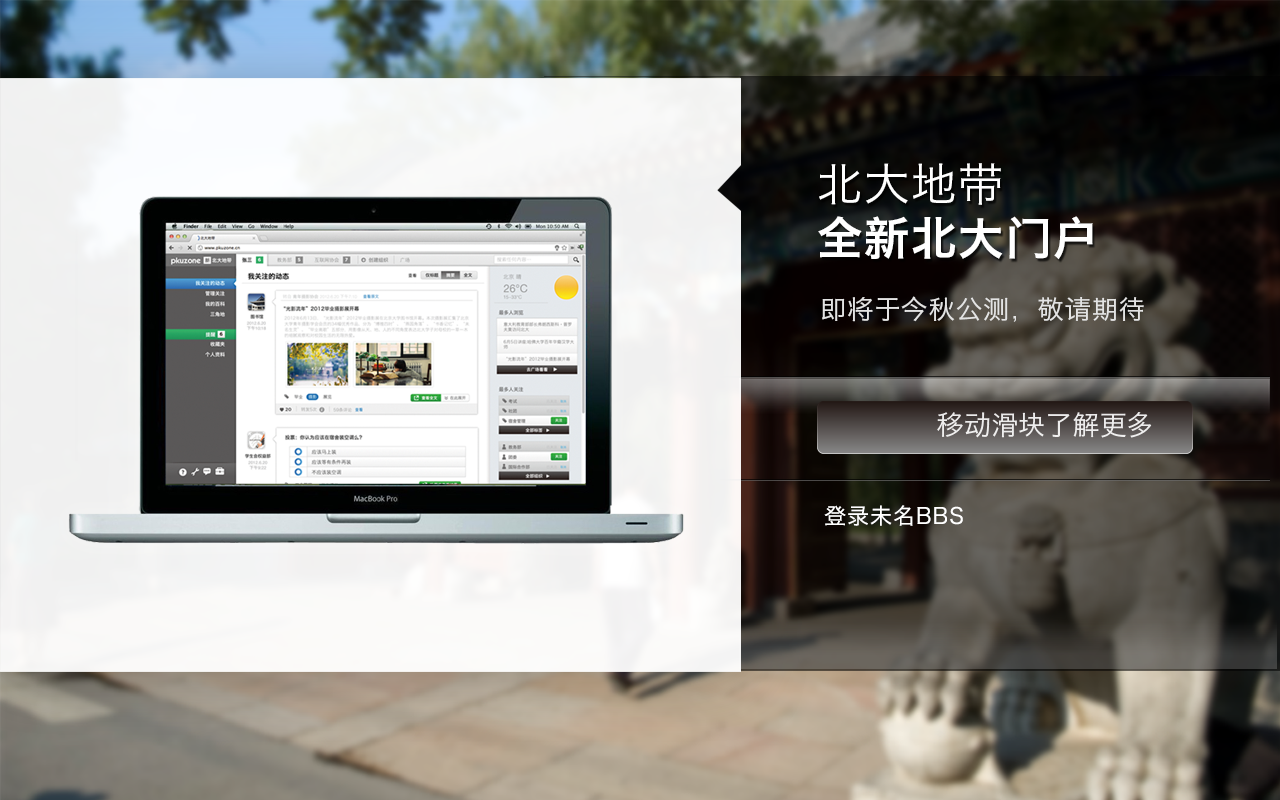
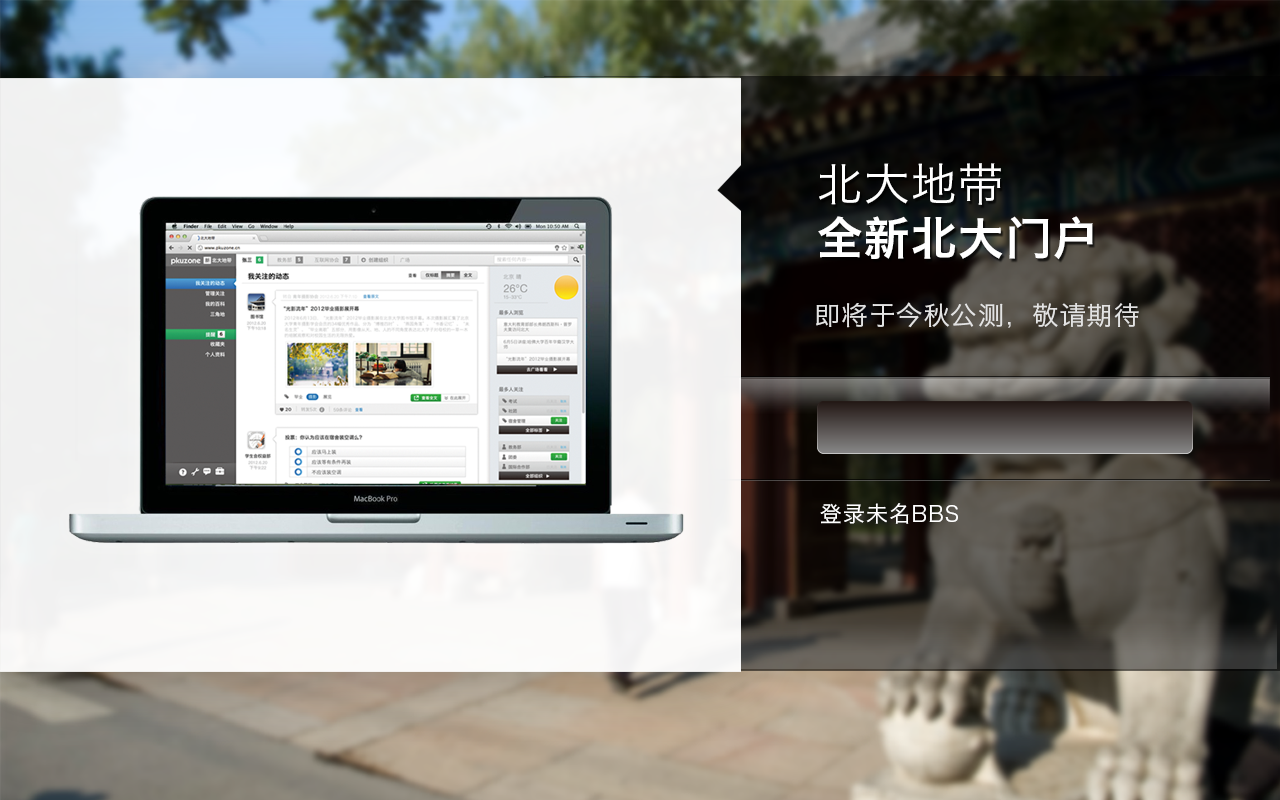
Modify to improve the compability in IE. Add opacity effect of the slide.

Changed region(s): [[0.7188, 0.5, 0.9062, 0.5625], [0.625, 0.375, 0.9062, 0.4062], [0.625, 0.625, 0.75, 0.6562]]

diff --git a/bdwm-entrance.html b/bdwm-entrance.html
@@ -7,7 +7,6 @@
     <meta name="author" content="" />
     <meta name="description" content="北京大学未名BBS bbs.pku.edu.cn" />
     <link rel="stylesheet" href="pkuzone.css" type="text/css" />
-    
 
     <script> 
       var userlogin_redirect = "http://www.bdwm.net/bbs/";
@@ -23,12 +22,13 @@
   <body>
     <div class="main">
       <div id="slide">
+        <img id="know-more" src="img/know-more.png" width="160" height="22">
         <img id="slider" src="img/slider.png" width="65" height="36" />
       </div>
       <div id="loginform">
         <form name="form1" method="post" action="https://www.bdwm.net/bbs/bbslog2.php">
-          <input id="inp_name" class="input_off" name="userid" onblur="this.className='input_off';this.onmouseout=function(){this.className='input_out'};" onmousemove="this.className='input_move'" onmouseout="this.className='input_out'" onmouseover="this.focus()" onfocus="this.className='input_on';this.onmouseout=''" onclick="//this.value='';$('#login-logo').hide();" maxlength="14" type="text" placeholder="用户名" />
-          <input id="inp_pass" class="input_off" name="passwd" onblur="this.className='input_off';this.onmouseout=function(){this.className='input_out'};" onmousemove="this.className='input_move'" onmouseout="this.className='input_out'" onmouseover="this.focus()" onfocus="this.className='input_on';this.onmouseout=''" onclick="//this.value='';$('#login-logo').hide();" maxlength="40" type="password" placeholder="密码" />
+          <input id="inp_name" class="input_off" name="userid" onblur="this.className='input_off';this.onmouseout=function(){this.className='input_out'};" onmousemove="this.className='input_move'" onmouseout="this.className='input_out'" onmouseover="this.focus()" onfocus="this.className='input_on';this.onmouseout=''" onclick="this.value='';$('#login-logo').hide();" maxlength="14" type="text" placeholder="用户名" />
+          <input id="inp_pass" class="input_off" name="passwd" onblur="this.className='input_off';this.onmouseout=function(){this.className='input_out'};" onmousemove="this.className='input_move'" onmouseout="this.className='input_out'" onmouseover="this.focus()" onfocus="this.className='input_on';this.onmouseout=''" onclick="this.value='';$('#login-logo').hide();" maxlength="40" type="password" placeholder="密码" />
           <input id="login-logo" type="image" src="img/login.png" type="submit" width="20" height="20" />
         </form>
         <div class="links">
@@ -58,10 +58,18 @@
           revert: true, 
           revertDuration: 500, 
           drag: function(){
-            if (this.style.left == '212px') {
+            var left = parseInt(this.style.left),
+                percent = (100-left>0) ? (100-left)/100 : 0;
+            $('#know-more').css('opacity',percent);
+          },
+        });
+        $('#slider').mouseup(function(){
+            if (parseInt(this.style.left) > 210) {
               window.location.href='http://irsa.bdwm.net'; 
-            };
-        }});
+            } else {
+              $('#know-more').fadeTo('slow',1);
+            }
+        });
       });
     </script>
     

diff --git a/pkuzone.css b/pkuzone.css
@@ -9,18 +9,34 @@ body {
   background-image: -moz-linear-gradient(bottom, #999999 0%, #010101 50%);
   background-image: -webkit-linear-gradient(bottom, #999999 0%, #010101 50%);
   background-image: -ms-linear-gradient(bottom, #999999 0%, #010101 50%);
+  filter : progid:DXImageTransform.Microsoft.Gradient ( 
+      startColorStr=#010101 , 
+      endColorStr=#999999
+    )
 }
 .main {
   position: relative;
   height: 600px;
   width: 960px;
   background-image: url("img/pkuzone.png");
-  filter:"progid:DXImageTransform.Microsoft.AlphaImageLoader(sizingMethod='scale')";
+  filter: progid:DXImageTransform.Microsoft.AlphaImageLoader(
+      src='img/pkuzone.png',
+      sizingMethod='scale'
+    );
+  -mfs-filter: progid:DXImageTransform.Microsoft.AlphaImageLoader(
+      src='images/pkuzone.png',
+      sizingMethod='scale'
+    );
   -moz-background-size:100% 100%;
 	background-size:100% 100%;
 	margin: 0 auto 8px;
 	box-shadow: 0px 3px 7px #444;
 	border-left: 1px solid rgba(200,200,200,0.6);
+}
+#know-more {
+  position: absolute;
+  right: 12px;
+  top: 7px;
 }
 #slide {
   position: absolute;
@@ -69,7 +85,7 @@ input:hover, input:focus {
 #login-logo {
   position: absolute;
   right: 8px;
-  bottom: 7px;
+  bottom: 6px;
 }
 .links {
   float: left;
@@ -95,7 +111,7 @@ p {
 }
 p a {
   text-decoration: none;
-  color: #444;
+  color: #383838;
   font-weight: 0;  
 }
 p a:hover {

diff --git a/js/html5placeholder.jquery.js b/js/html5placeholder.jquery.js
@@ -78,16 +78,15 @@
   //expose defaults
   $.fn.placeholder.defaults = {
     //you can pass in a custom wrapper
-    inputWrapper: '<span style="position:relative; display:block;"></span>',
+    inputWrapper: '<span style="position:relative; color: #999; display:block;"></span>',
   
     //more or less just emulating what webkit does here
     //tweak to your hearts content
     placeholderCSS: {
-      'font':'0.75em sans-serif', 
-      'color':'#bababa', 
+      'font-size':'12px', 
       'position': 'absolute', 
-      'left':'5px',
-      'top':'3px', 
+      'left':'8px',
+      'top':'6px', 
       'overflow-x': 'hidden',
 			'display': 'block'
     }
